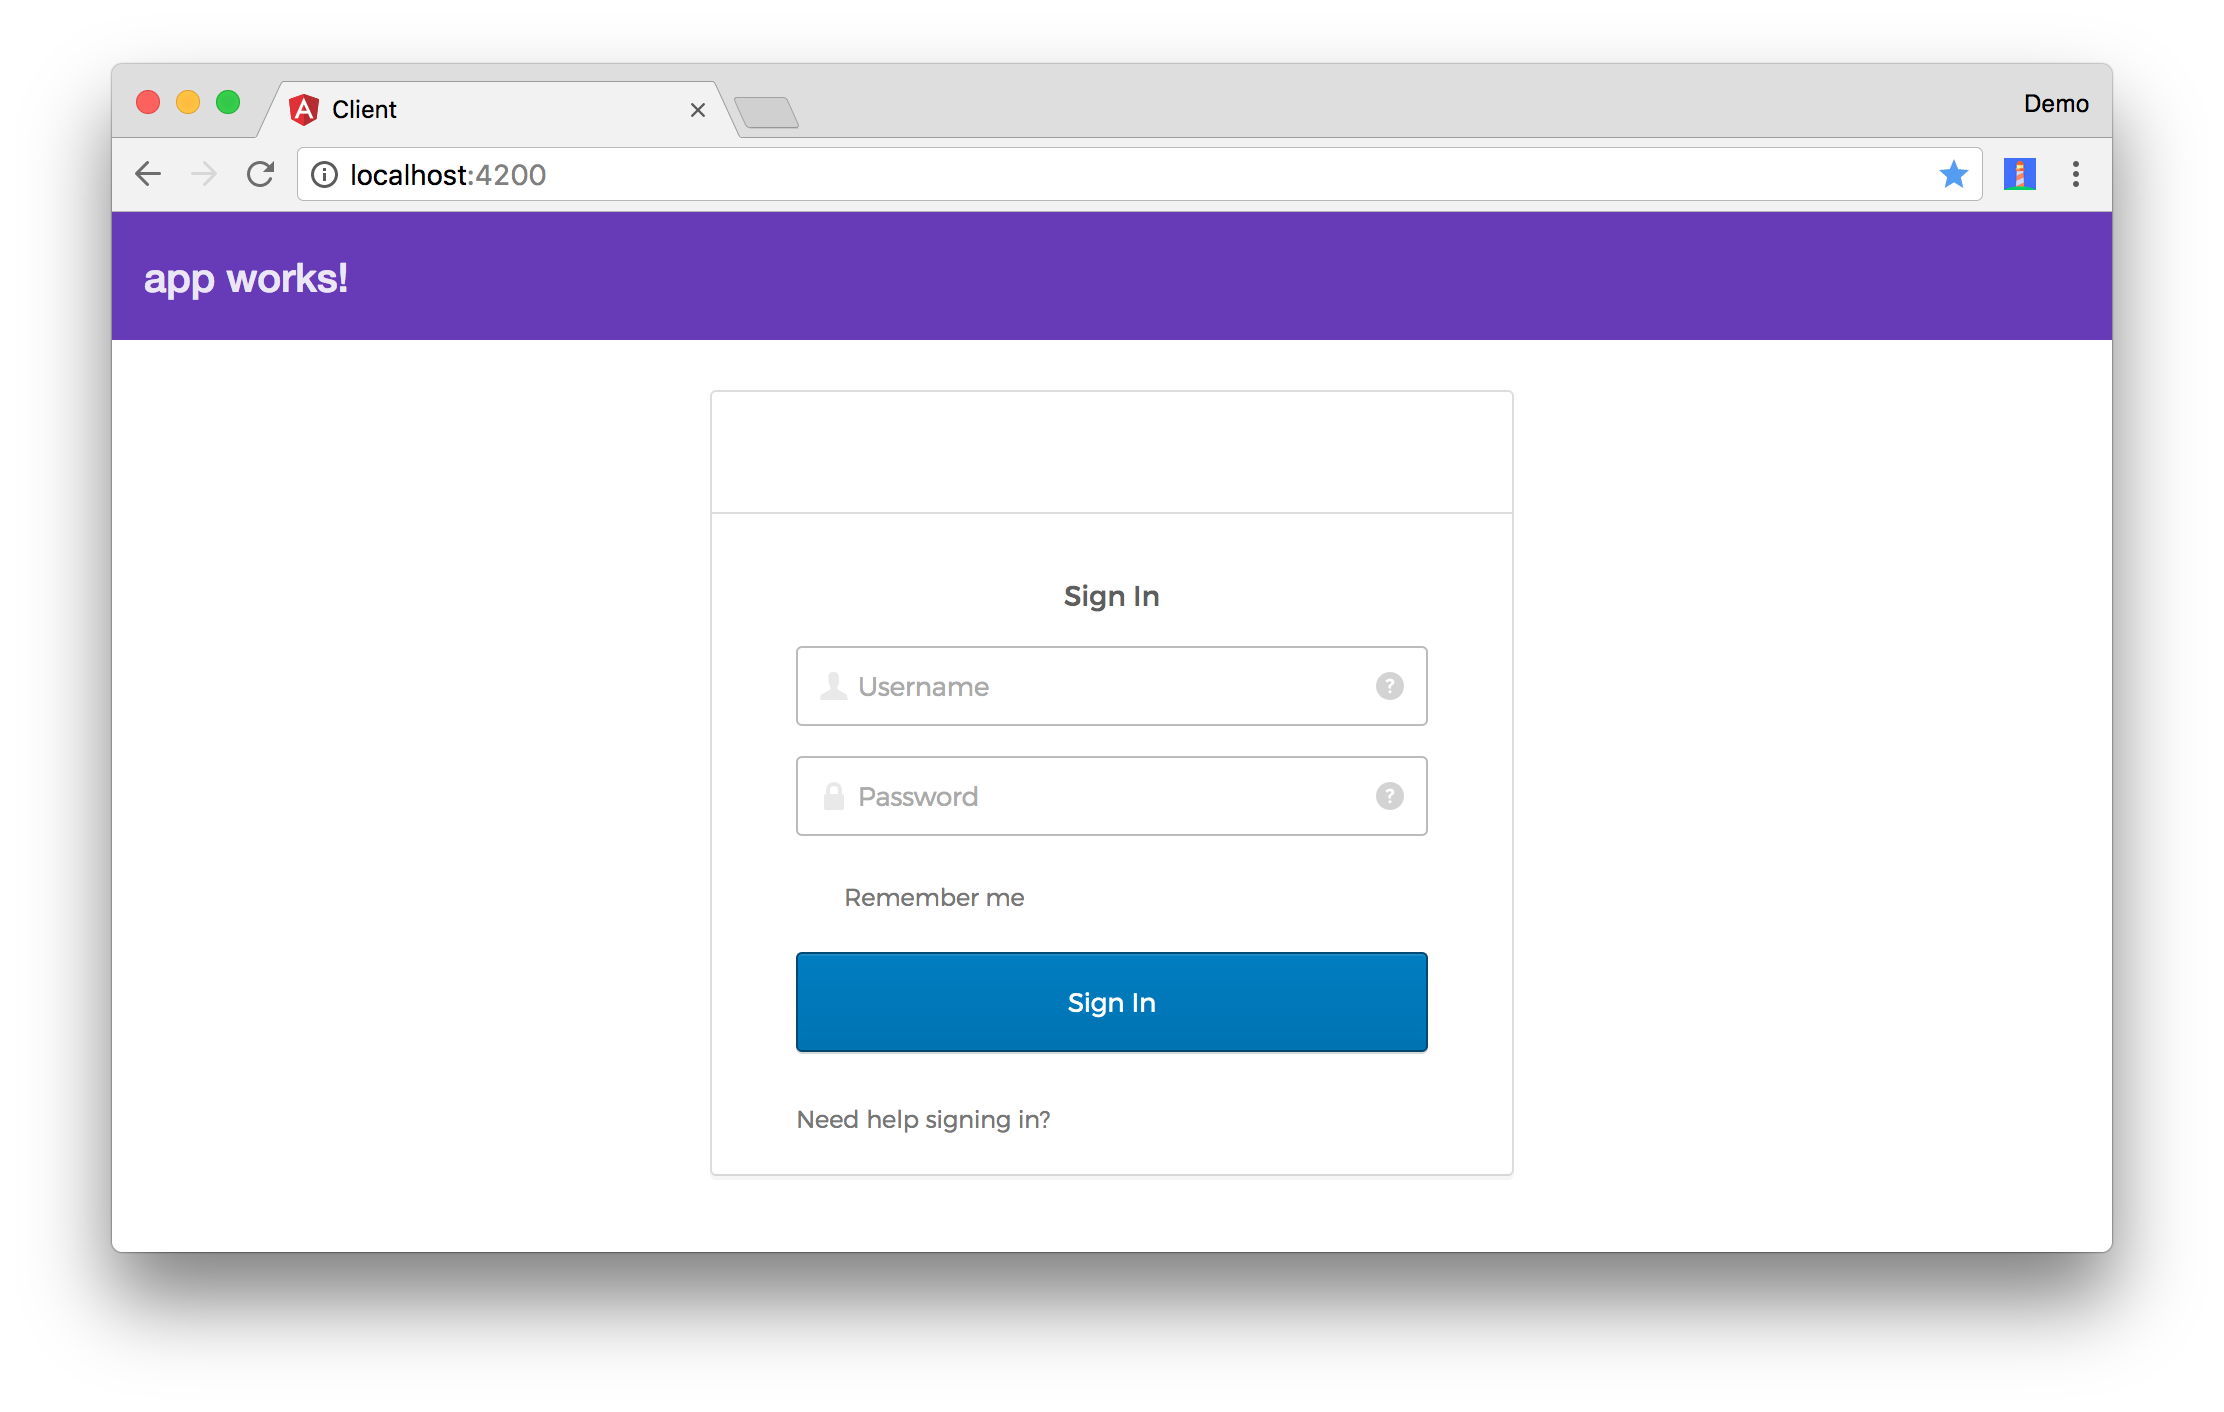
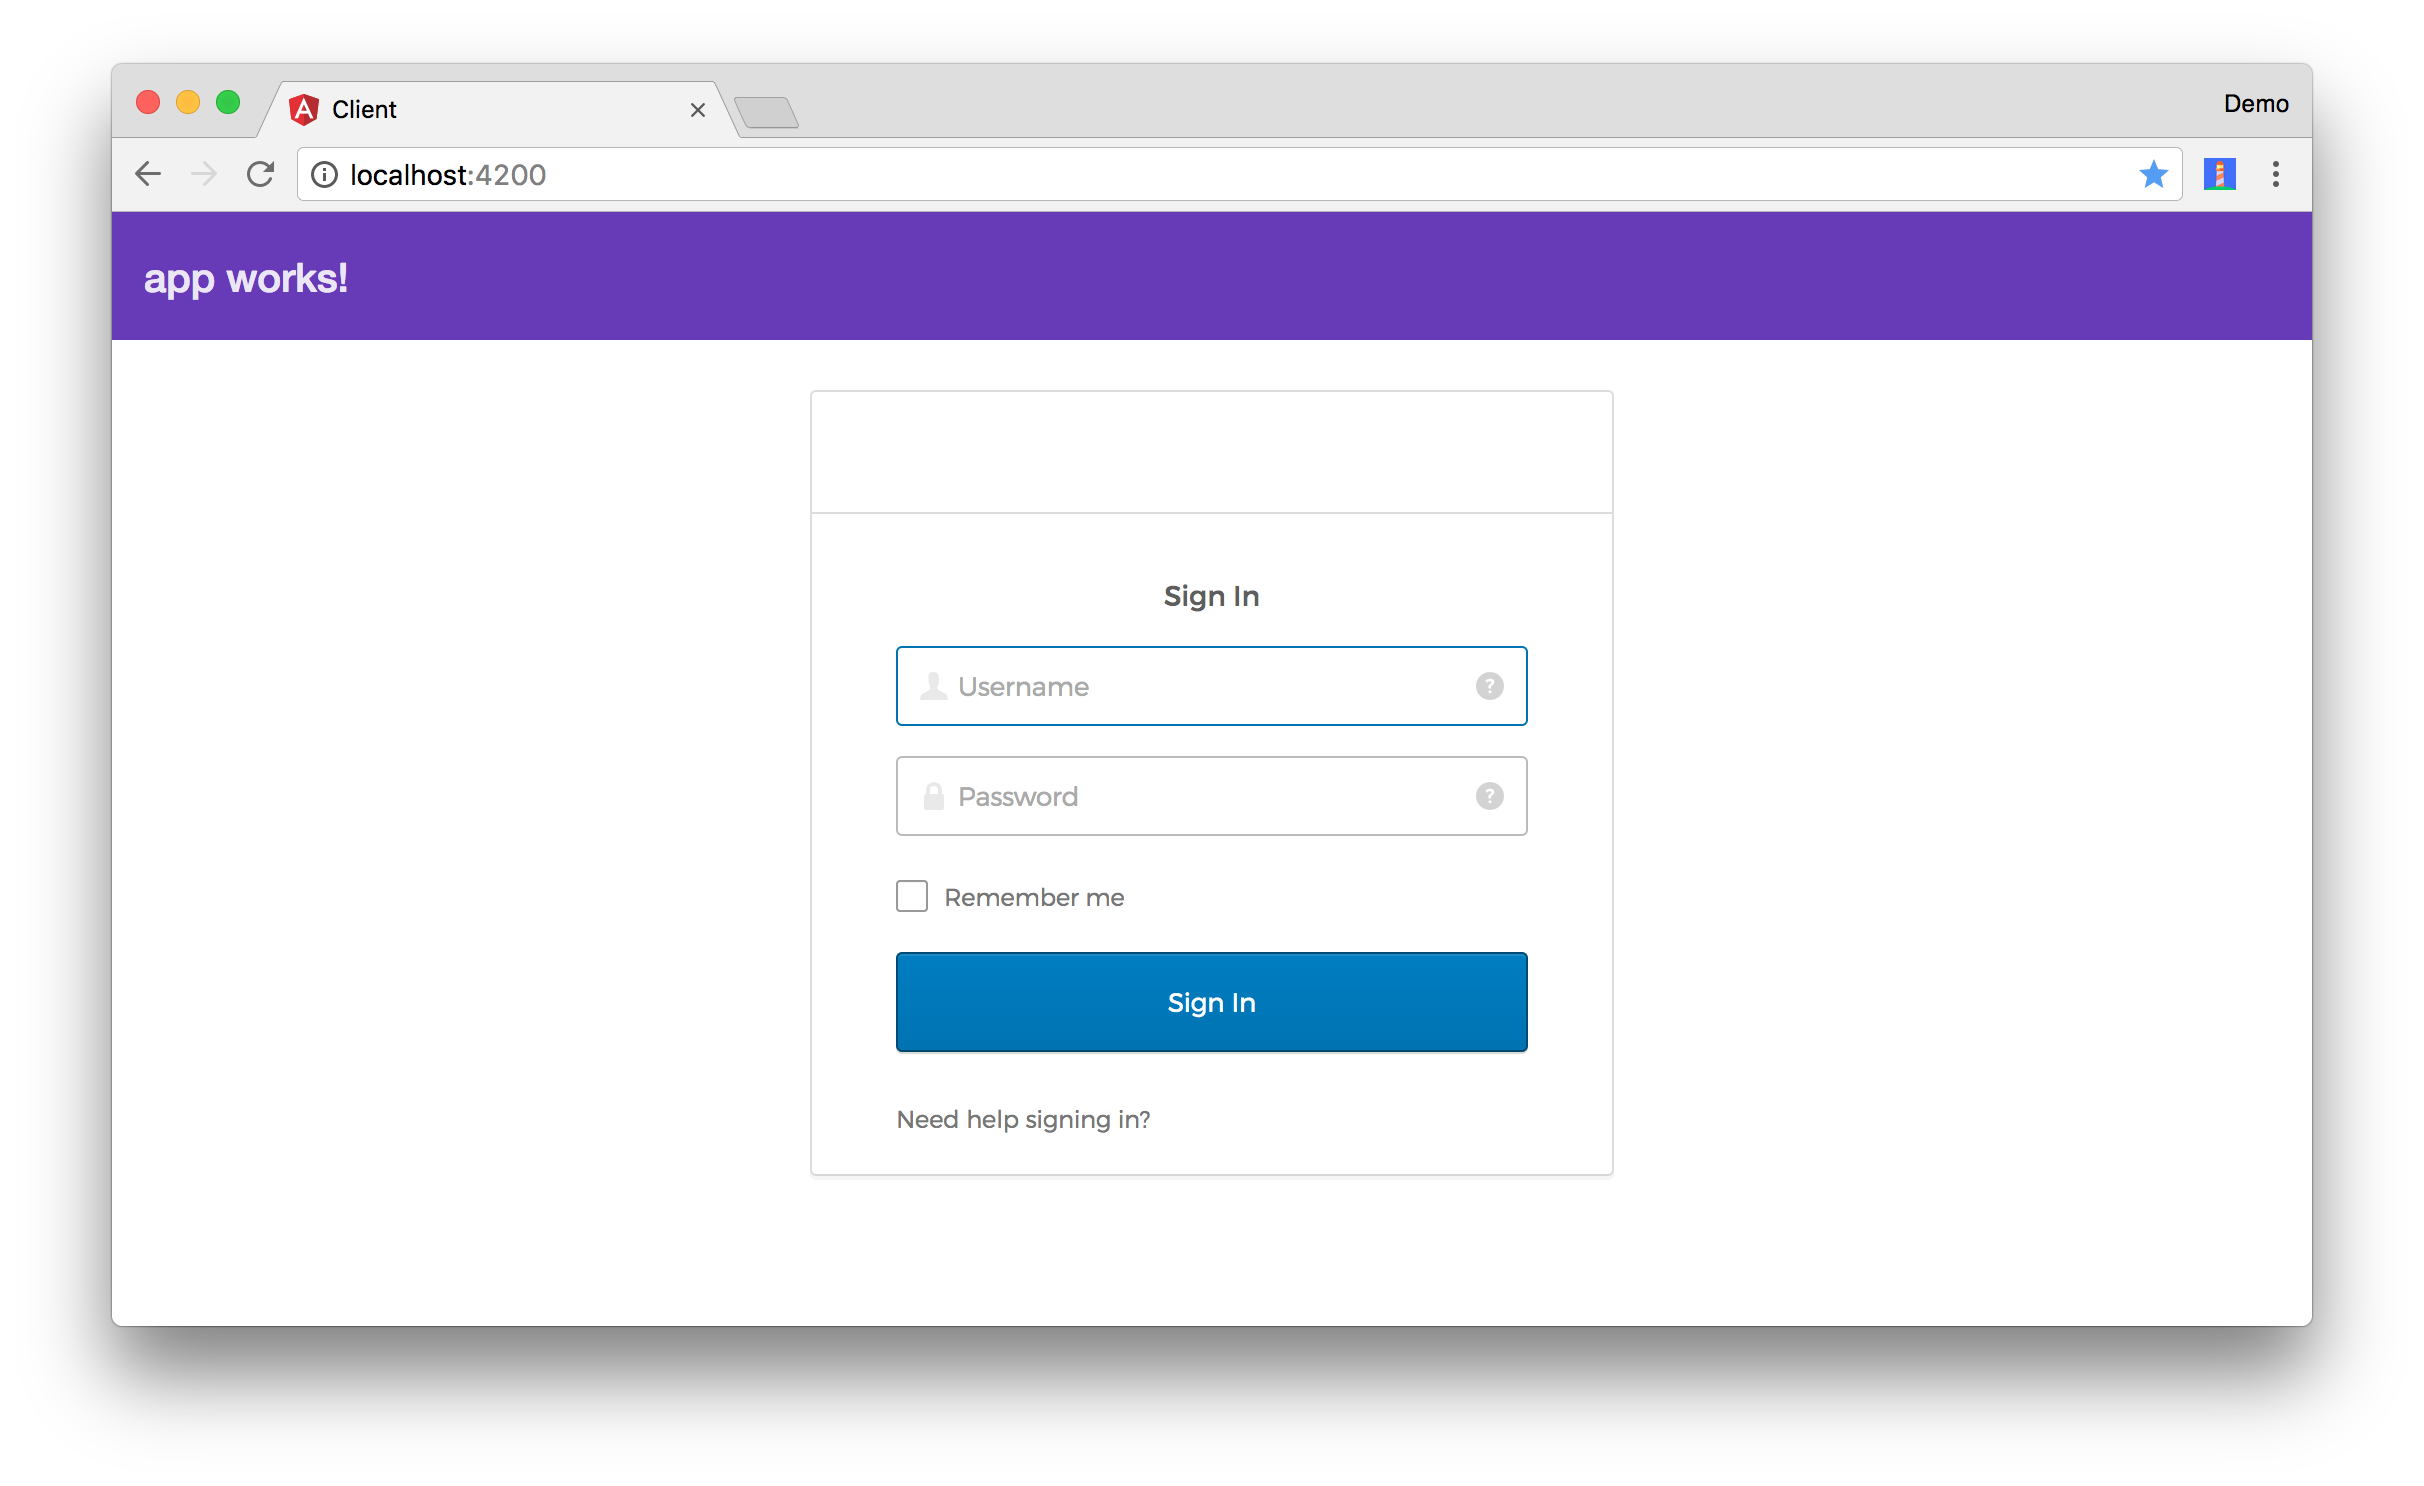
Use CSS from CDN to fix checkbox issue

diff --git a/client/src/styles.css b/client/src/styles.css
@@ -1,7 +1,7 @@
 @import '~https://fonts.googleapis.com/icon?family=Material+Icons';
 @import '~@angular/material/core/theming/prebuilt/deeppurple-amber.css';
-@import '~@okta/okta-signin-widget/dist/css/okta-sign-in.min.css';
-@import '~@okta/okta-signin-widget/dist/css/okta-theme.css';
+@import '~https://ok1static.oktacdn.com/assets/js/sdk/okta-signin-widget/2.1.0/css/okta-sign-in.min.css';
+@import '~https://ok1static.oktacdn.com/assets/js/sdk/okta-signin-widget/2.1.0/css/okta-theme.css';
 
 body {
   margin: 0;

diff --git a/OKTA.md b/OKTA.md
@@ -602,8 +602,8 @@ Okta's Sign-In Widget ships with CSS that make it looks good out-of-the-box. To 
  `client/src/styles.css` to have the following two imports. 
 
 ```css
-@import '~@okta/okta-signin-widget/dist/css/okta-sign-in.min.css';
-@import '~@okta/okta-signin-widget/dist/css/okta-theme.css';
+@import '~https://ok1static.oktacdn.com/assets/js/sdk/okta-signin-widget/2.1.0/css/okta-sign-in.min.css';
+@import '~https://ok1static.oktacdn.com/assets/js/sdk/okta-signin-widget/2.1.0/css/okta-theme.css';
 ```
 
 ### Verify Authentication Works
@@ -627,51 +627,7 @@ If you want to adjust the style of the form, so it isn't right up against the to
 
 You should be able to log in, see a welcome message, as well as a logout button.
 
-![Angular Welcome](static/angular-welcome.png) 
-
-#### Fixing the Remember Me checkbox in 2.1.0
-
-You might notice on the login form that it has a line for "Remember Me", but no checkbox. This is a [bug](https://github.com/okta/okta-signin-widget/pull/248) and will be fixed in a future release. As a workaround, you can do two things:
-
-1. Copy the image into your project and add its directory as an asset.
-2. Disable the Remember Me feature.
-
-To copy the image into your project, run the following commands to create a directory and copy the image into it.
-
-```bash
-cd client
-mkdir -p src/img/ui/forms
-cp node_modules/@okta/okta-signin-widget/dist/img/ui/forms/checkbox-sign-in-widget@2x.png src/img/ui/forms/.
-```
-
-You'll also need to update `client/.angular-cli.json` to include the `img` directory.
-
-```json
-"assets": [
-  "assets",
-  "img",
-  "favicon.ico",
-  "sw.js"
-],
-```
-
-If you'd rather disable Remember Me, update `client/src/app/shared/okta/okta.service.ts` to turn it off using a 
-[feature flag](https://developer.okta.com/code/javascript/okta_sign-in_widget_ref#feature-flags).
-
-```typescript
-signIn = new OktaSignIn({
-  baseUrl: '{yourOktaDomain}',
-  clientId: '{clientId}',
-  authParams: {
-    issuer: '{yourOktaDomain}',
-    responseType: ['id_token', 'token'],
-    scopes: ['openid', 'email', 'profile']
-  },
-  features: {
-    rememberMe: false
-  }
-});
-```
+![Angular Welcome](static/angular-welcome.png)
 
 ## Learn More
 
